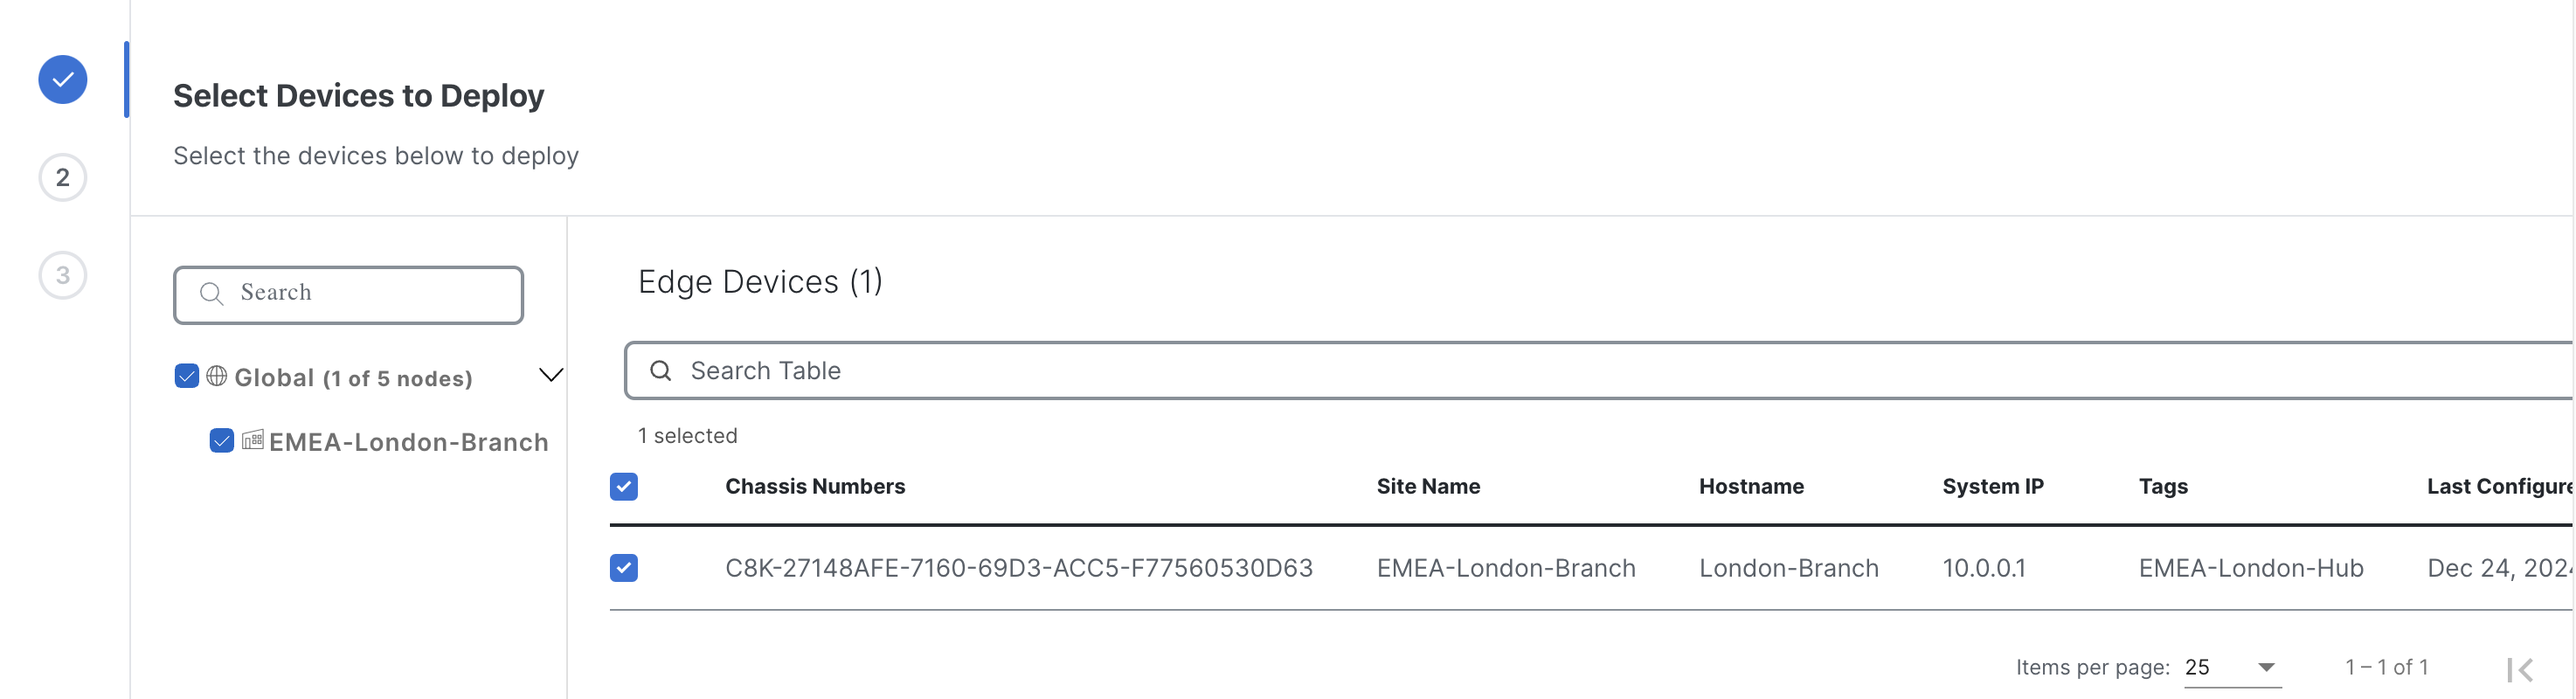
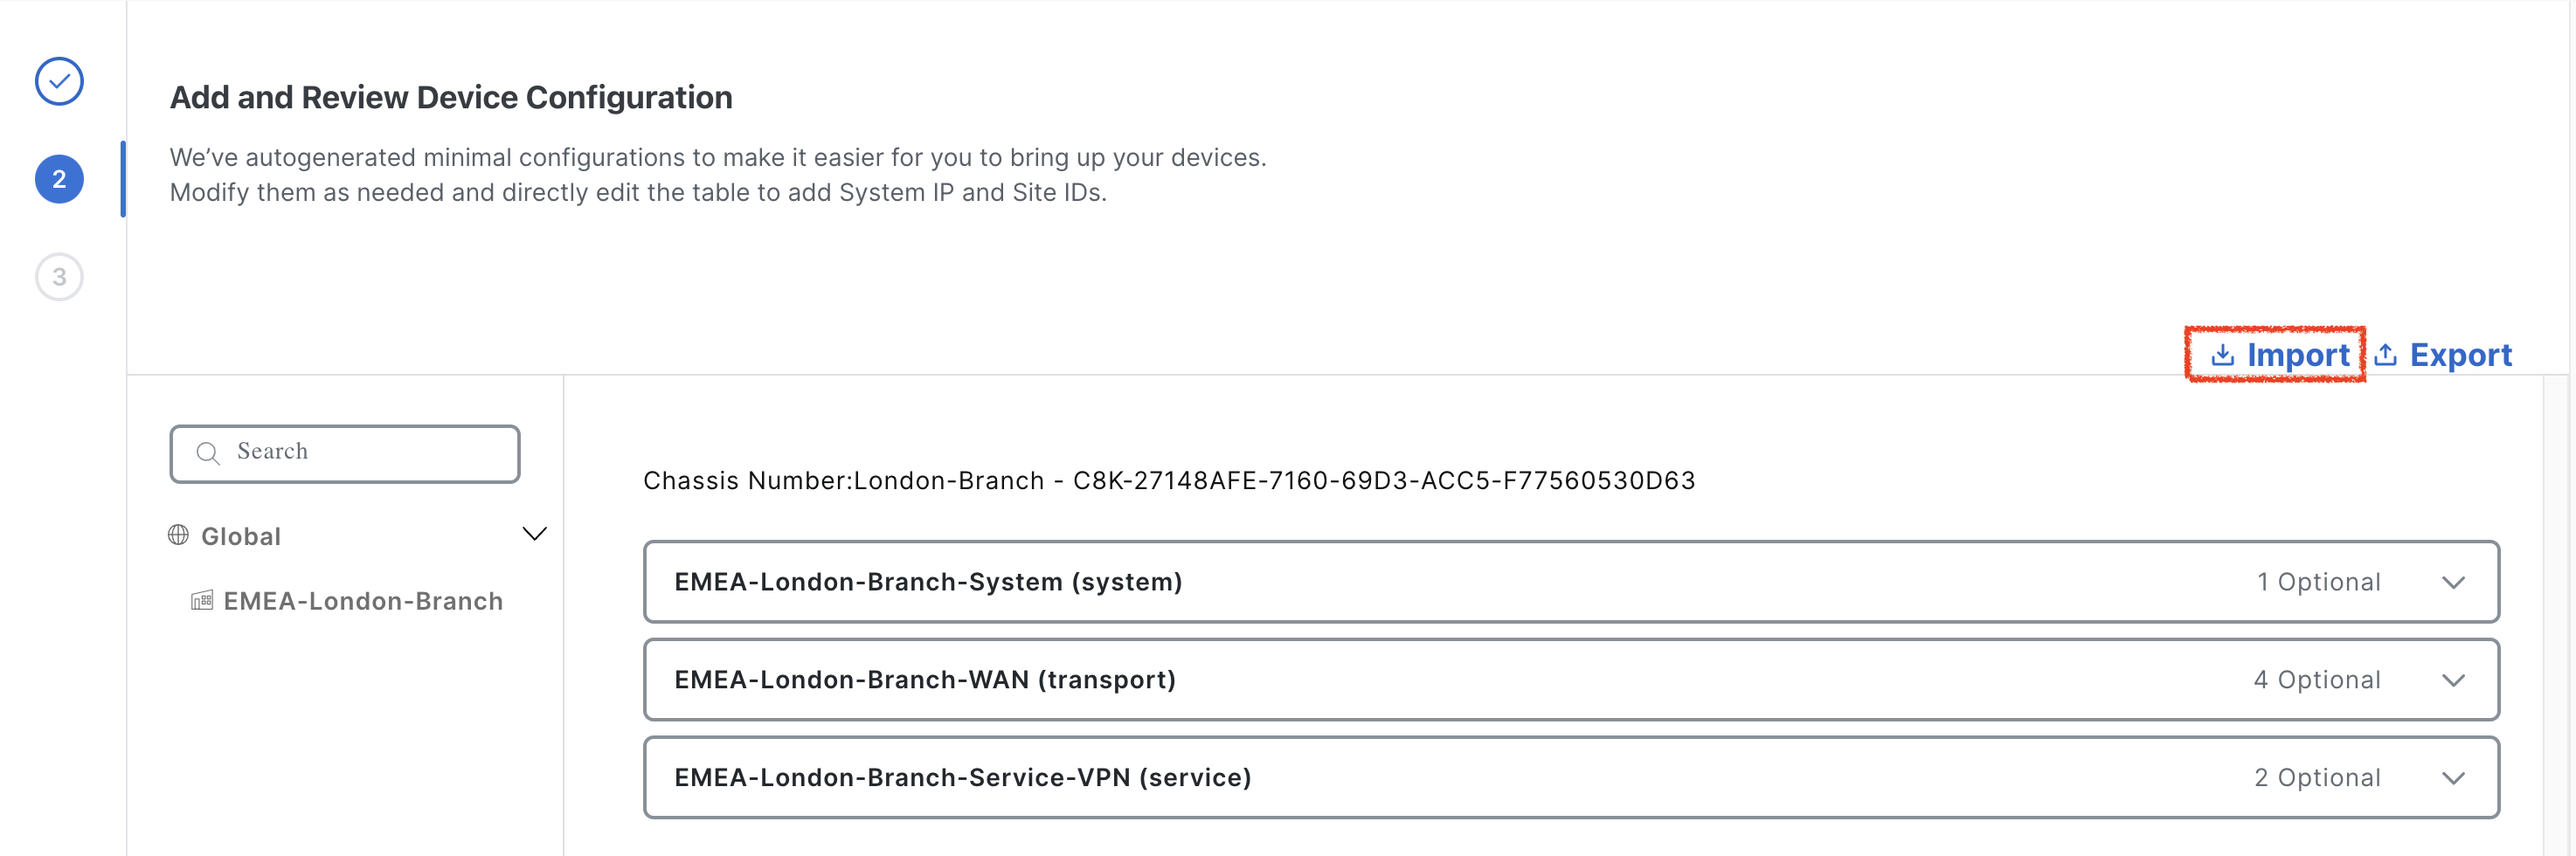
Scenario-2 guide

diff --git a/docs/lab2_getting_started.md b/docs/lab2_getting_started.md
@@ -145,7 +145,7 @@ This configuration ensures that the desired service policies are enforced as tra
     ![Deoplying Configuration Group with Service Chain Definition](./assets/S-1-figure-16.png){ .off-glb }
 17. In **Deploy Configuration Group** page, select **EMEA-London-Branch** by clicking the square Radio Button and Click **Next**.  
     ![Deoplying Configuration Group with Service Chain Definition](./assets/S-2-figure-9.png){ .off-glb }
-18. Click **Import**, and load **EMEA-Stockholm-Branch.csv** file which loads all the values for the variables.
-    ![Attaching CSV file](./assets/S-1-figure-18.png){ .off-glb }
+18. Click **Import**, and load **EMEA-London-Branch.csv** file which loads all the values for the variables.
+    ![Attaching CSV file](./assets/S-2-figure-1-.png){ .off-glb }
 
     
